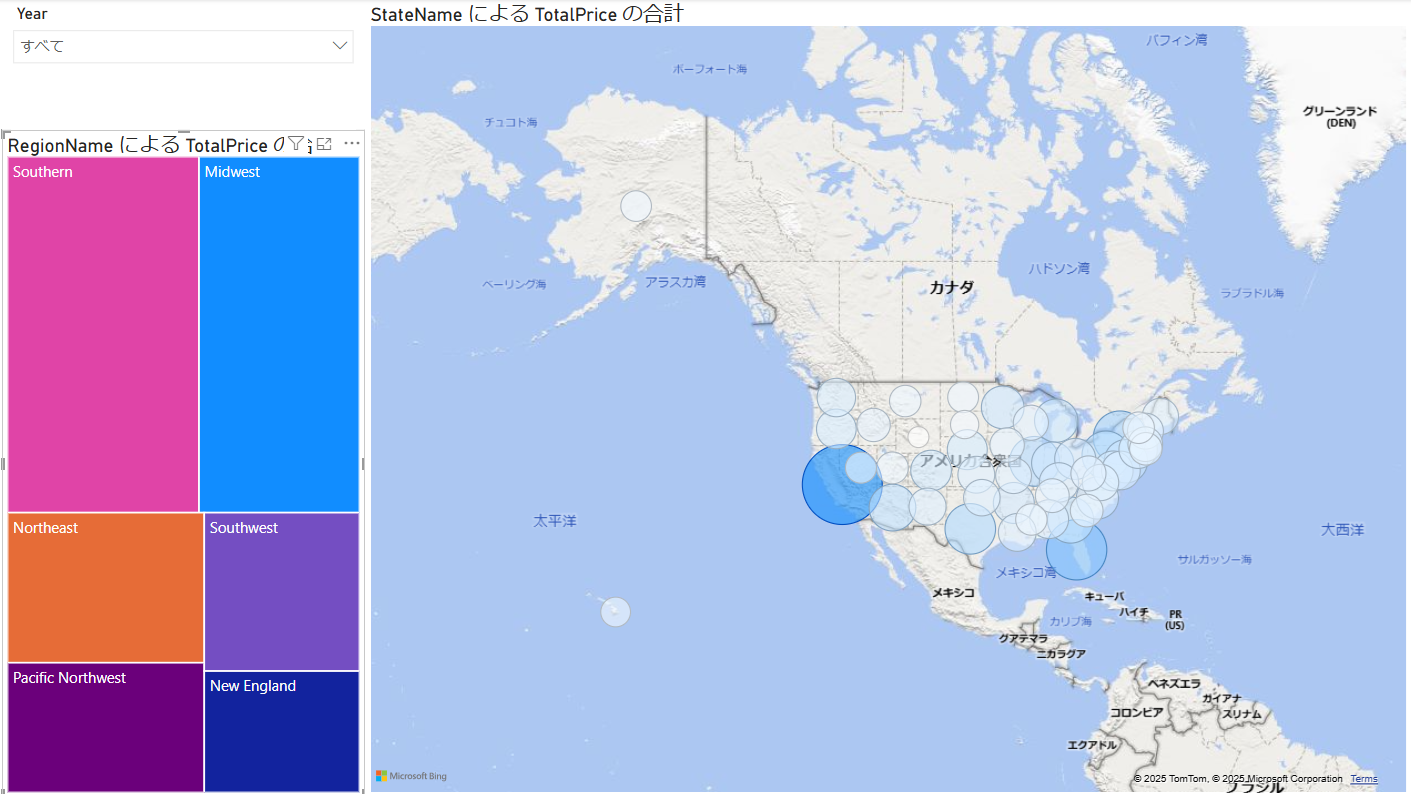
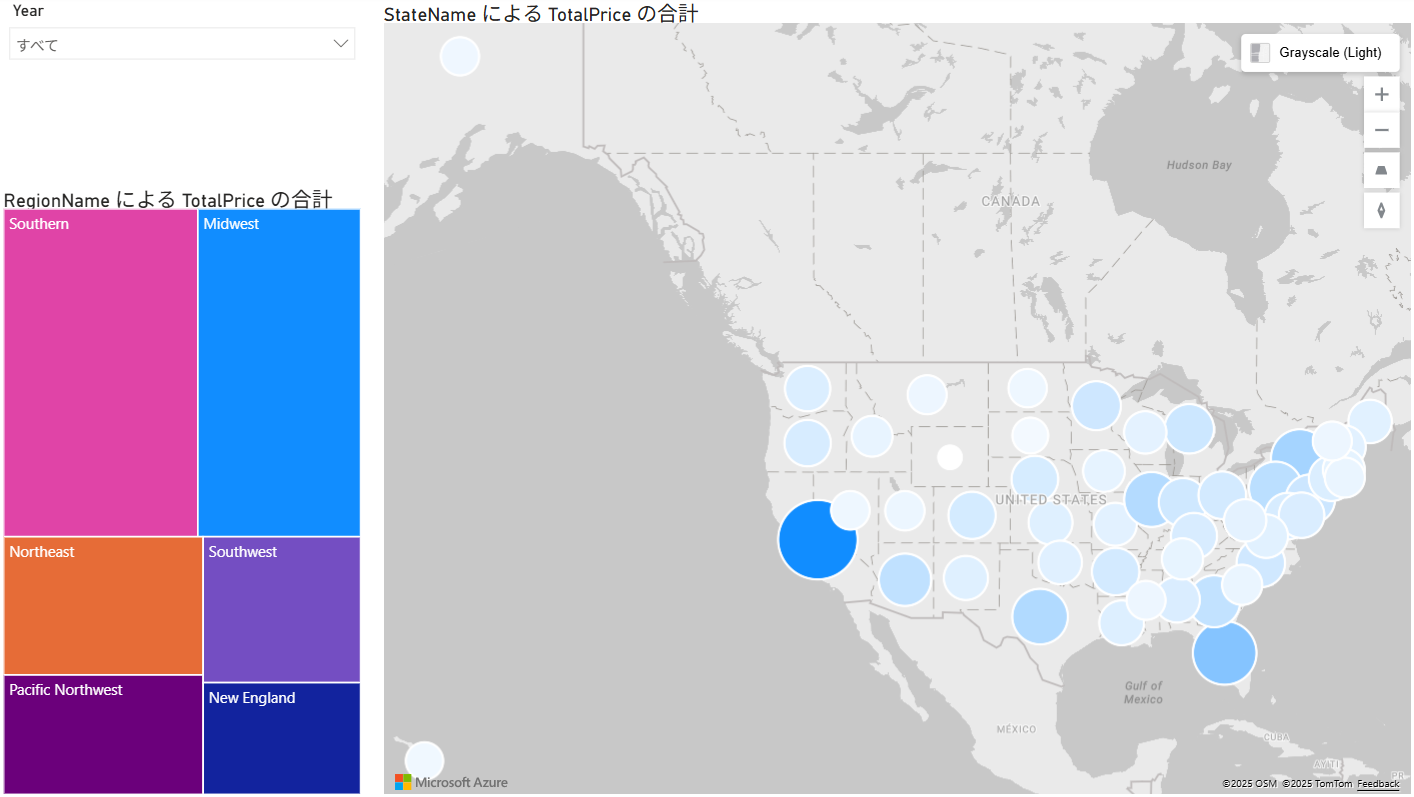
update

diff --git a/LabManual/06-Power BI Desktopを使用したレポートの作成.md b/LabManual/06-Power BI Desktopを使用したレポートの作成.md
@@ -156,22 +156,20 @@
 
       <img src="./image/Lab06/lab06_010.png" width="50%">
 
-1. 続けて、視覚化ペインから **マップ** のビジュアルを選択して配置します。
+1. 続けて、視覚化ペインから **Azure Maps** のビジュアルを選択して配置します。
 
       <img src="./image/Lab06/lab06_011.png" width="50%">
 
 1. 配置したグラフビジュアルに以下の列項目を追加します。
 
       - 場所：Stateテーブル | StateName列
-      - バブルサイズ：Salesテーブル | TotalPrice列
+      - サイズ：Salesテーブル | TotalPrice列
 
-1. デフォルトの設定ではバブルのサイズが小さいため、サイズを調整します。ビジュアルが選択されている状態で、 **視覚化ペイン** の **ビジュアルの書式設定** から **バブル** を展開し、 **サイズ** を **0** に変更します。
+1. デフォルトの設定ではバブルのサイズが小さいため、サイズを調整します。ビジュアルが選択されている状態で、 **視覚化ペイン** の **ビジュアルの書式設定** から **バブルレイヤー** を展開し、 **サイズ** の最小値を **10** 、最大値を **350** に変更します。
 
-1. 同じく書式設定のバブルにて **色** を展開し、 **fx** のボタンをクリックします。
+1. 同じく書式設定のバブルレイヤーの項目にて **色** を展開し、 **fx** のボタンをクリックします。
 
-      <img src="./image/Lab06/lab06_012.png" width="50%">
-
-1. **既定色 - バブル - 色** のウィンドウで以下の項目を設定します。設定が完了したら **OK** をクリックして適用します。
+1. **カラー - バブル レイヤー - 色** のウィンドウで以下の項目を設定します。設定が完了したら **OK** をクリックして適用します。
 
       - スタイルの書式設定：グラデーション
       - 基準にするフィールド：TotalPriceの合計
